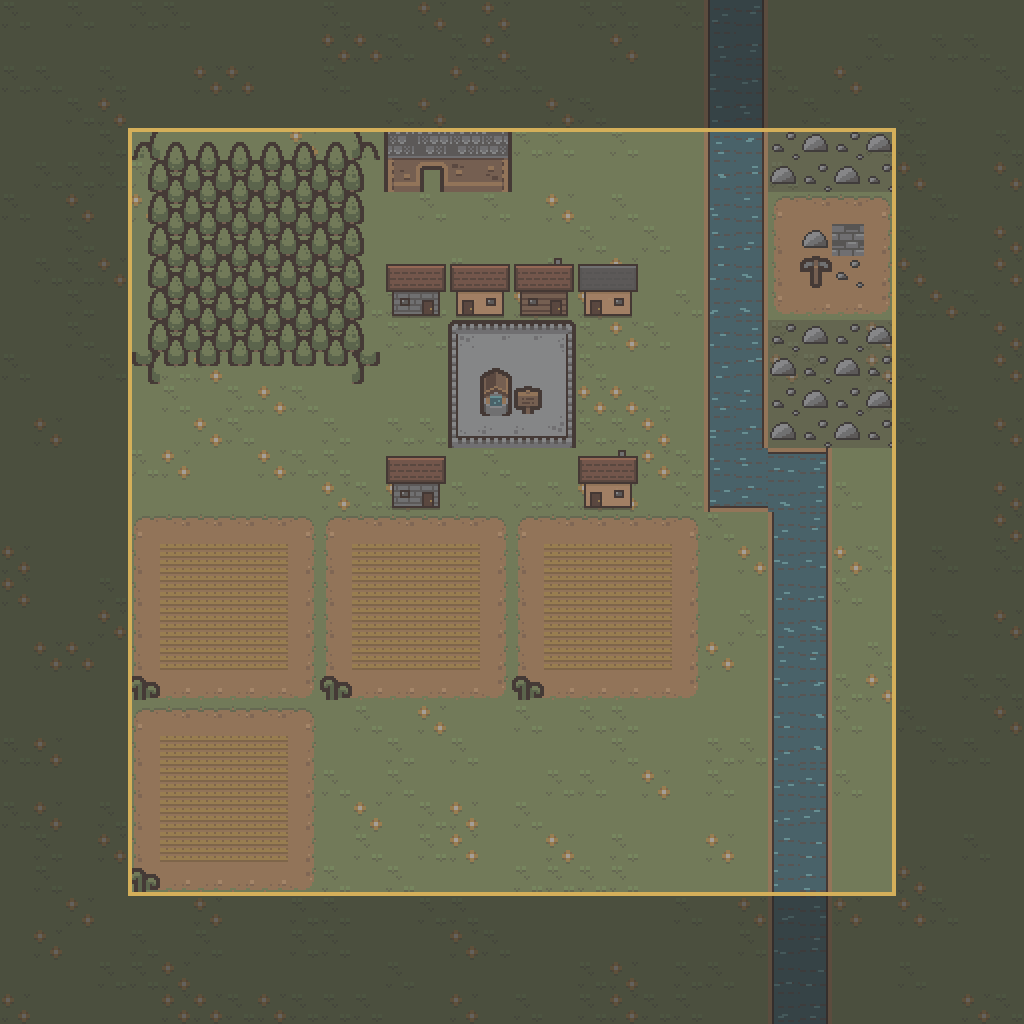
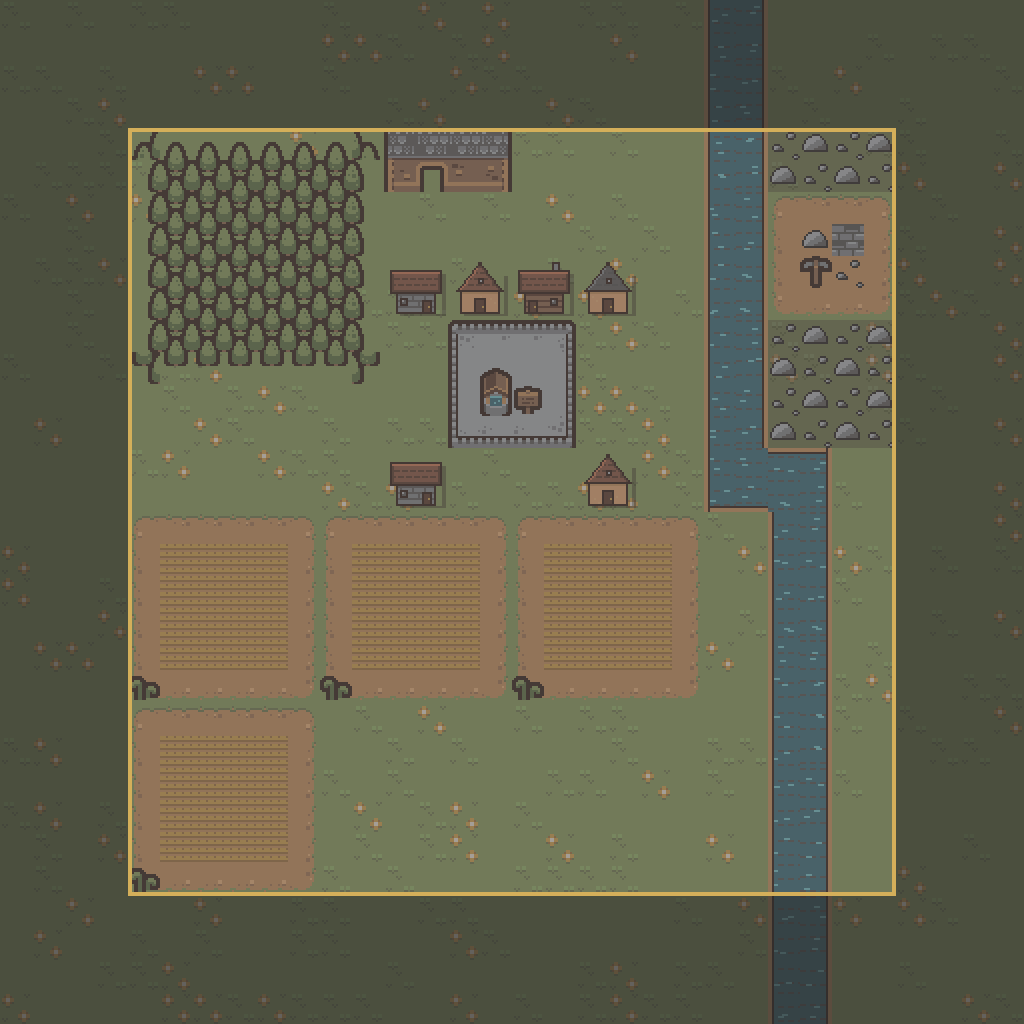
Map mockup: houses narrower with grass between, alternating eaves and gable roofs, cast shadows

Changed region(s): [[0.375, 0.25, 0.625, 0.3125], [0.5625, 0.4375, 0.625, 0.5], [0.375, 0.4375, 0.4375, 0.5]]

diff --git a/docs/index.html b/docs/index.html
@@ -556,7 +556,7 @@ footer { padding-block: 2.5rem 4rem; color: var(--ink-faint); font-size: 0.85rem
 
   <div class="proposal-group">
     <h3>E. Il palazzo nelle tre ere</h3>
-    <p>Proposta: un palazzo fisso 2×2 accanto alla piazza, verso il fiume, sulle caselle (7,3)–(8,4) del nucleo. Il motore oggi non lo conosce: è solo nel mockup. Con l'era cambiano il palazzo, le case e la piazza. Tavolozza seriosa (la n. 2). Case e palazzo sono disegnati da noi, pixel per pixel, nello stile di Tiny Town: tetti a falda con colmo e grondaia, un filo d'erba tra una casa e l'altra.</p>
+    <p>Proposta: un palazzo fisso 2×2 accanto alla piazza, verso il fiume, sulle caselle (7,3)–(8,4) del nucleo. Il motore oggi non lo conosce: è solo nel mockup. Con l'era cambiano il palazzo, le case e la piazza. Tavolozza seriosa (la n. 2). Case e palazzo sono disegnati da noi, pixel per pixel, nello stile di Tiny Town: case più strette del loro spazio, con l'erba in mezzo; una casa sì e una no tetto di fronte o a capanna col timpano, ombra portata a destra.</p>
     <div class="art-grid">
       <figure><img src="assets/proposals/mockup/core_era1.png" alt="Il regno nella prima era: villaggio con la sala del signore" loading="lazy" style="aspect-ratio:1/1;image-rendering:pixelated"><figcaption><b>Villaggio: la sala del signore</b><span>Lunga sala di legno col tetto di paglia, una staccionata, lo stendardo d'oro. Case di paglia, piazza di terra battuta.</span></figcaption></figure>
       <figure><img src="assets/proposals/mockup/core_era2.png" alt="Il regno nella seconda era: città con il palazzo comunale" loading="lazy" style="aspect-ratio:1/1;image-rendering:pixelated"><figcaption><b>Città: il palazzo comunale</b><span>Torre civica in pietra con la cella campanaria, loggia a tre archi, tetto di coppi. Case di coppi e ardesia, piazza lastricata.</span></figcaption></figure>

diff --git a/lab/pixel_buildings.py b/lab/pixel_buildings.py
@@ -141,19 +141,74 @@ def draw_banner(canvas, palette, pole_x, top_y, pole_height, flag_left: bool = T
     frame(canvas, palette, flag_x0, top_y + 1, 7, 5, GOLD_DARK)
 
 
+def draw_gable_roof(canvas, palette, centre_x: int, top: int, half_base: int, height: int,
+                    kind: str, seed: int) -> None:
+    """@brief A roof seen gable-on: a triangle, sunlit left slope, shaded
+    right slope, courses (or straw) and an ink outline."""
+    light, mid, dark = ROOFS[kind]
+    for row in range(height):
+        half = 1 + (half_base - 1) * row // (height - 1)
+        x0, x1 = centre_x - half, centre_x + half - 1
+        for x in range(x0, x1 + 1):
+            colour = mid
+            if kind == "thatch" and (x * 7 + row + seed) % 5 == 0:
+                colour = dark
+            elif kind != "thatch" and row % 3 == 2 and (x + row) % 4 != 0:
+                colour = dark
+            put(canvas, palette, x, top + row, colour)
+        if half > 2:
+            put(canvas, palette, x0 + 1, top + row, light)
+            put(canvas, palette, x1 - 1, top + row, dark)
+        put(canvas, palette, x0, top + row, INK)
+        put(canvas, palette, x1, top + row, INK)
+    for x in range(centre_x - half_base, centre_x + half_base):
+        put(canvas, palette, x, top + height - 1, INK)
+
+
+def cast_shadow(canvas, x_right: int, y0: int, y1: int, x_left: int) -> None:
+    """@brief Shadow on the grass: two columns right of the building and one
+    row under it, so neighbours read as separate volumes."""
+    for y in range(y0, y1 + 1):
+        shade_pixel(canvas, x_right + 1, y)
+        shade_pixel(canvas, x_right + 2, y)
+    for x in range(x_left + 2, x_right + 3):
+        shade_pixel(canvas, x, y1 + 1)
+
+
+def shade_pixel(canvas, x: int, y: int, factor: float = 0.72) -> None:
+    canvas.pixels[y][x] = tuple(int(c * factor) for c in canvas.pixels[y][x])
+
+
 def draw_house(canvas, palette, px: int, py: int, building_id: int, era: int) -> None:
-    """@brief One house in its 32 x 32 block: grass shows 1-2 px on each
-    side, so neighbours stay apart. Door left or right, chimney on some."""
+    """@brief One house in its 32 x 32 block, narrower than the block so
+    6 px of grass separate two neighbours. Houses alternate by id between
+    eaves-on (long roof, chimney on some) and gable-on (triangle over the
+    front), so a row of houses never reads as one block."""
     roof, wall = ERA_STYLES[era][building_id % len(ERA_STYLES[era])]
-    door_left = building_id % 2 == 0
+    if building_id % 2 == 0:
+        draw_gable_house(canvas, palette, px, py, building_id, roof, wall)
+    else:
+        draw_eaves_house(canvas, palette, px, py, building_id, roof, wall)
+
+
+def draw_eaves_house(canvas, palette, px, py, building_id, roof, wall) -> None:
+    door_left = building_id % 4 == 1
     if building_id % 3 == 0:
-        fill(canvas, palette, px + 21, py + 1, 4, 6, WALLS["stone"][1])
-        frame(canvas, palette, px + 21, py + 1, 4, 6)
-    draw_roof(canvas, palette, px + 1, py + 4, 30, 14, roof, building_id)
-    draw_wall(canvas, palette, px + 4, py + 18, 24, 12, wall, building_id)
-    draw_door(canvas, palette, px + (7 if door_left else 19), py + 22, 6, 8)
-    draw_window(canvas, palette, px + (19 if door_left else 8), py + 21)
-    shade(canvas, px + 4, py + 30, 24)
+        fill(canvas, palette, px + 20, py + 3, 4, 6, WALLS["stone"][1])
+        frame(canvas, palette, px + 20, py + 3, 4, 6)
+    draw_roof(canvas, palette, px + 3, py + 7, 26, 12, roof, building_id)
+    draw_wall(canvas, palette, px + 6, py + 19, 20, 10, wall, building_id)
+    draw_door(canvas, palette, px + (8 if door_left else 19), py + 22, 5, 7)
+    draw_window(canvas, palette, px + (19 if door_left else 8), py + 21, 4, 4)
+    cast_shadow(canvas, px + 28, py + 9, py + 28, px + 6)
+
+
+def draw_gable_house(canvas, palette, px, py, building_id, roof, wall) -> None:
+    draw_gable_roof(canvas, palette, px + 16, py + 3, 12, 15, roof, building_id)
+    draw_wall(canvas, palette, px + 6, py + 18, 20, 11, wall, building_id)
+    draw_window(canvas, palette, px + 15, py + 11, 3, 3)
+    draw_door(canvas, palette, px + 13, py + 21, 6, 8)
+    cast_shadow(canvas, px + 27, py + 10, py + 28, px + 6)
 
 
 def draw_lord_hall(canvas, palette, px: int, py: int) -> None:
